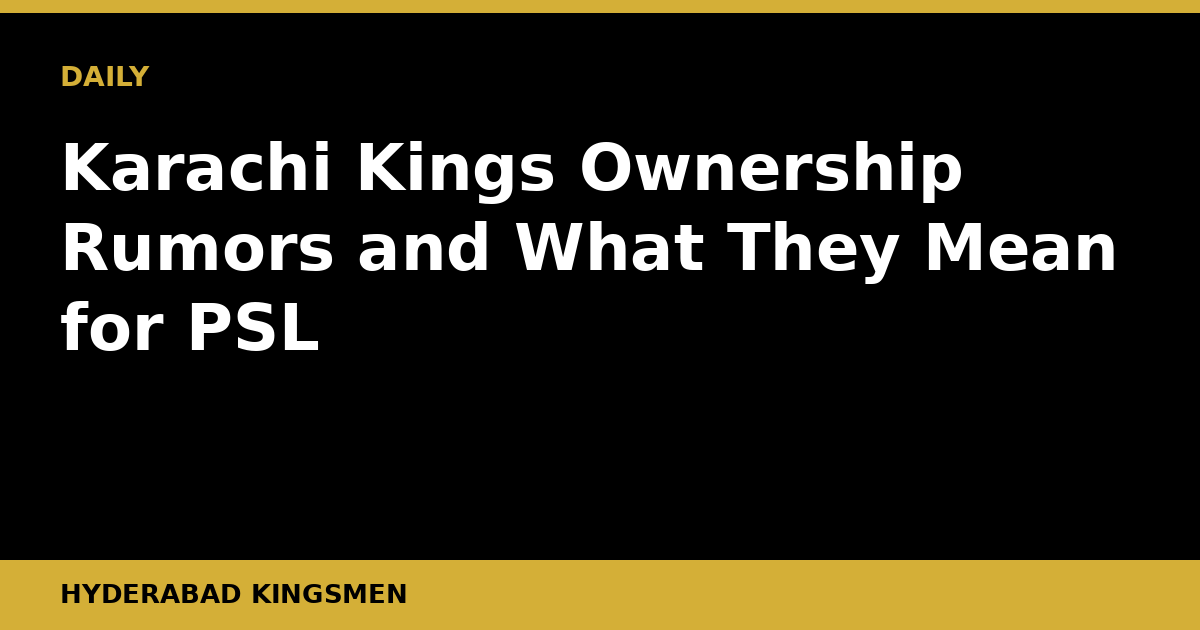
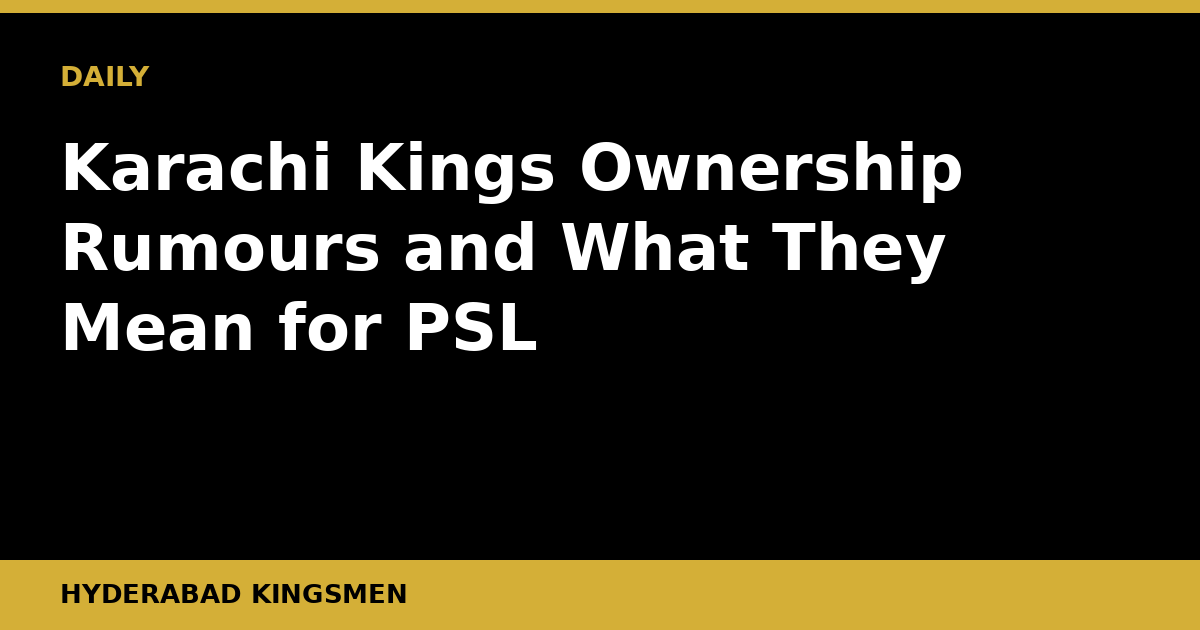
Daily post 2026-10-27

Changed region(s): [[0.2158, 0.3317, 0.9558, 0.4524], [0.0617, 0.4825, 0.4625, 0.573]]

diff --git a/content/posts/karachi-kings-ownership-shakeup-psl-economics.md b/content/posts/karachi-kings-ownership-shakeup-psl-economics.md
@@ -1,45 +1,49 @@
 ---
-title: "Karachi Kings Ownership Rumors and What They Mean for PSL"
+title: "Karachi Kings Ownership Rumours and What They Mean for PSL"
 slug: "karachi-kings-ownership-shakeup-psl-economics"
-date: "2026-08-16T02:17:45+05:00"
+date: "2026-10-27T05:50:44+05:00"
 draft: false
-description: "Ownership change rumors at Karachi Kings have reignited debate about franchise stability and the long-term financial health of the PSL model."
+description: "Ownership rumours swirling around Karachi Kings raise serious questions about franchise stability and the long-term financial health of the PSL."
 banner: "/banners/karachi-kings-ownership-shakeup-psl-economics.png"
 kicker: "ANALYSIS"
 author: "Hyderabad Kingsmen"
 translationKey: "karachi-kings-ownership-shakeup-psl-economics"
-tags: ["psl", "karachi-kings", "pakistan-cricket", "franchise-cricket", "psl-economics", "pcb", "t20-cricket"]
+tags: ["psl", "karachi-kings", "pakistan-cricket", "franchise-cricket", "pcb", "psl-economics", "t20-cricket"]
 categories: ["Analysis"]
 ---
 
-Rumors swirling around a potential ownership shakeup at Karachi Kings are more than locker-room gossip. If the franchise that commands Pakistan's largest cricket market is in flux, the entire PSL ecosystem needs to take a long, honest look at itself.
+Rumours of an ownership shakeup at Karachi Kings have been circulating in Pakistani cricket circles for weeks, and even without confirmed details, the noise alone is significant. In a league still maturing its commercial model, instability at one of the PSL's most high-profile franchises sends ripples far beyond one city.
 
-## The Real Story Is About Franchise Viability
+## The Real Story Is About PSL's Financial Architecture
 
-Karachi Kings have always been the PSL's marquee commercial asset on paper. The city has the country's biggest population, the hungriest cricket fanbase, and a stadium that, when full, is one of the most electric venues in T20 cricket. Yet persistent reports suggest the franchise's ownership structure may be headed for significant change. That gap between potential and delivery is exactly what makes this moment worth examining seriously.
+Karachi Kings are not just another franchise. They represent Pakistan's largest city, its financial capital, and historically one of the PSL's biggest potential markets. The franchise has underperformed in recent seasons both on the field and, reportedly, in terms of commercial returns. When ownership rumours attach themselves to a club of that size, it invites uncomfortable scrutiny of how the PSL structures its franchise agreements, revenue sharing, and accountability mechanisms.
 
-The PSL operates on a franchise model borrowed loosely from the IPL and CPL playbook. Franchises pay the PCB a base fee, build their own commercial revenues through sponsorships, merchandise, and gate receipts, and share a portion of central broadcast and commercial income. In theory, it is a self-sustaining cycle. In practice, several PSL franchises have reportedly struggled to hit the kind of returns that would make long-term ownership straightforward. Karachi, despite their market size, have not consistently translated their city's passion into trophy wins or financial dominance, and those two things are more connected than owners like to admit publicly.
+The PSL has long operated with a relatively opaque commercial framework compared to, say, the IPL or the BBL. Franchise valuations, broadcast revenue splits, and the terms under which owners can exit or transfer stakes are not matters of public record. That opacity creates fertile ground for speculation whenever a franchise shows signs of internal stress.
 
-## Why Ownership Stability Matters to the Whole League
+What appears to be happening at Karachi is the product of multiple pressures converging at once: modest on-field returns over several seasons, the global squeeze on sports entertainment spending, and the broader economic pressures facing Pakistani businesses. None of those factors is unique to Karachi Kings, which is precisely the point. If the ownership structure of one franchise is wobbling, it raises fair questions about the resilience of the others.
 
-The PSL is not the IPL. It does not yet have the broadcast rights value or the global sponsor queue that makes owning an Indian franchise a guaranteed wealth generator. Pakistan's media rights landscape remains complicated by geopolitics and streaming penetration. That means PSL franchises depend heavily on local sponsorship ecosystems and PCB central distributions, both of which have their own vulnerabilities.
+## Why This Matters for the Wider PSL
 
-When a high-profile franchise like Karachi goes through ownership uncertainty, it sends signals that rattle the entire investor community. Potential new owners of future expansion franchises, or businesses considering title sponsorships, start asking uncomfortable questions. Is the PSL financially stable enough for a ten-year commitment? Are there exit mechanisms if a franchise struggles? Does the PCB have the governance architecture to protect investor interests?
+The PCB has invested enormously in the PSL's credibility, and rightly so. The league has been a genuine success story, producing international-quality players, generating broadcast interest, and giving Pakistan a domestic T20 product worthy of respect. But the league is still in a phase where investor confidence is being established rather than taken for granted.
 
-These are not hypothetical concerns. The Hyderabad Kingsmen, newly admitted to the league, will be watching the Karachi situation closely. Their own investors and sponsors will want to understand exactly what kind of financial environment they are entering. A messy ownership transition at one of the PSL's oldest and most prominent clubs makes that environment look uncertain.
+A messy ownership transition, or worse, a prolonged period of uncertainty, at Karachi Kings would damage that confidence. Potential new investors considering entry into the PSL, whether for existing franchises or any future expansion slots, will be watching how the PCB handles this situation. Decisive, transparent governance here is not just good administration. It is a commercial signal to the market.
 
-## What Needs to Change Structurally
+There is also the player welfare dimension. Contracted players, support staff, and commercial partners attached to Karachi Kings need certainty about who they are dealing with. Prolonged ambiguity at ownership level eventually filters down to squad planning, retention decisions, and the ability to attract marquee foreign signings ahead of future drafts.
 
-The PCB and the PSL's governing council need to address a few uncomfortable structural realities. First, franchise fee structures must reflect actual market conditions rather than optimistic projections drawn up in flush years. Second, revenue sharing from central commercial deals needs to be transparent enough that franchise owners can model their returns with confidence. Third, there has to be a cleaner process for ownership transfers so that when a franchise does change hands, cricket operations, player contracts, and staff continuity are protected. Players and coaches cannot be caught in limbo because two sets of businessmen are arguing over valuation.
+## What Happens Next for Karachi Kings
 
-For Karachi Kings specifically, any new ownership would need to address the franchise's persistent inability to build a consistent identity. They have had flashes of brilliance, some world-class overseas signings, moments that reminded everyone why Karachi cricket matters. But they have never managed to thread those moments into a coherent multi-season project. That is a management and vision problem as much as it is a financial one.
+If ownership does change hands, the immediate question is one of continuity versus disruption. A new ownership group with fresh capital and genuine ambition could, in theory, be exactly what the franchise needs. Karachi Kings have the market. They have the fanbase. What they have lacked in recent years is the combination of smart cricket operations and consistent commercial energy that winning franchises demonstrate.
 
-## What to Watch Next
+However, transitions invariably carry costs. Coaching structures, recruitment philosophies, and player relationships built over years do not automatically transfer when the boardroom changes. The Kings' next PSL campaign could look very different depending on how quickly any transition is resolved and how competent the incoming stewardship proves to be.
 
-The first thing to monitor is whether the PCB formally acknowledges any ownership process. The board has an approval role in any franchise ownership change, so any confirmed transaction would require their sign-off and, presumably, a public statement. Silence from the PCB is itself informative.
+From the PCB's side, this is a moment to demonstrate that the league's regulatory framework has teeth. Clear timelines, proper due diligence on any incoming ownership, and transparent communication with the public would all help stabilise the situation.
 
-Second, watch Karachi Kings' off-season activity in the PSL draft and retention windows. Franchises navigating ownership uncertainty often freeze major squad decisions, and any unusual passivity in the player market would be a telling sign.
+## What to Watch
 
-Third, keep an eye on the sponsorship landscape. If major Karachi Kings shirt sponsors or associate partners begin to look elsewhere, that would suggest the commercial people closest to the franchise know something the public does not yet.
+The first thing to monitor is whether the PCB makes any official statement acknowledging discussions around the franchise's ownership status. Silence from the board over a sustained period is itself informative.
 
-The PSL has grown into a genuinely important cricket property. Pakistan's cricket ecosystem needs it to succeed commercially, not just competitively. The Karachi Kings ownership story is a stress test. How the PCB and the franchise handle it will say a great deal about whether the league is building something durable or simply managing from one season to the next.
+Second, watch the player draft and retention windows that precede the next PSL season. How Karachi Kings handle those processes will indicate whether the franchise is operating with a clear ownership mandate or in caretaker mode.
+
+Third, keep an eye on Karachi's commercial activity, sponsorship announcements, and any changes to their management structure. These tend to be the early indicators of ownership shifts even before formal announcements are made.
+
+The PSL is big enough and important enough to Pakistan cricket that it cannot afford to let one of its foundational franchises drift. The board, the outgoing and any incoming ownership group, and the wider cricket community all have a stake in getting this right.
